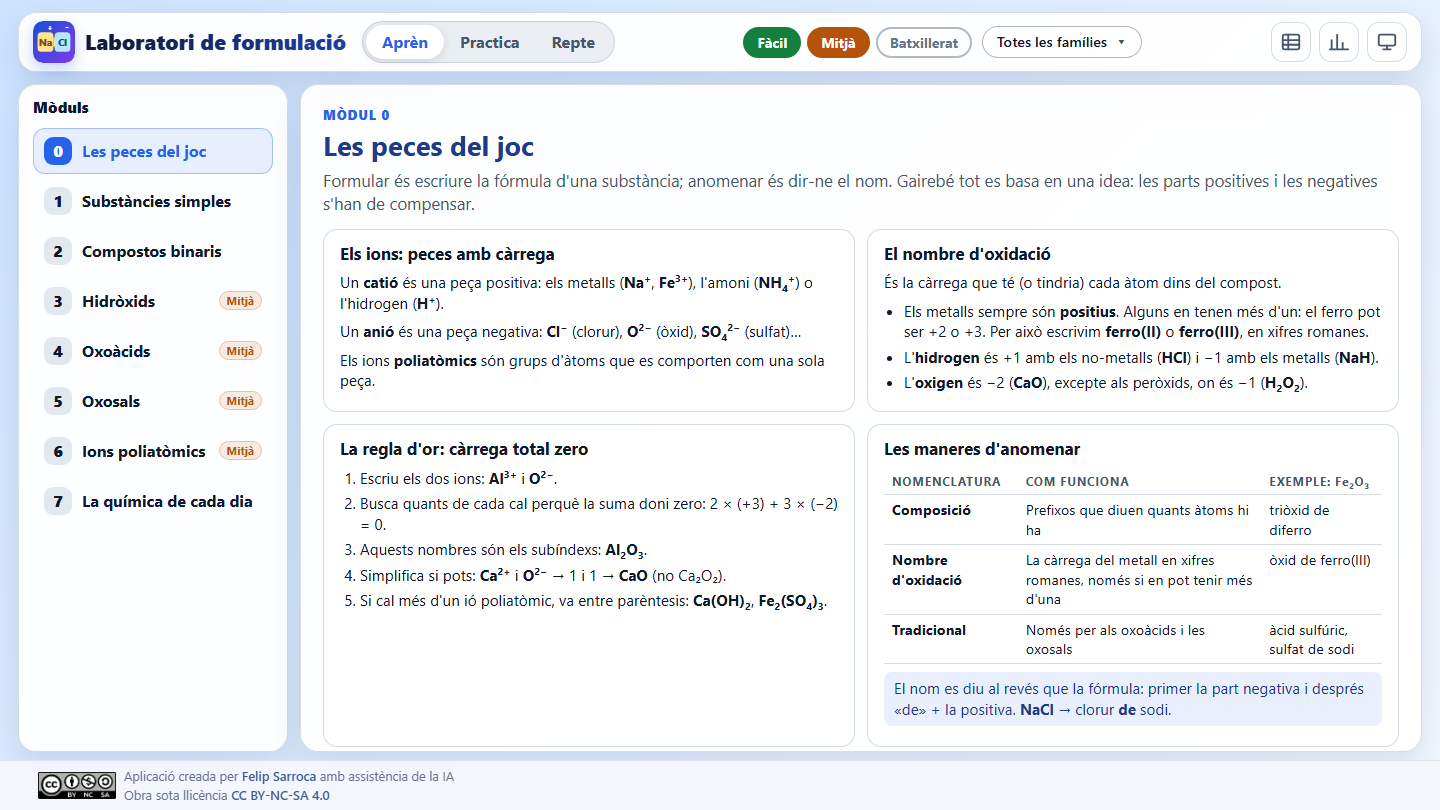
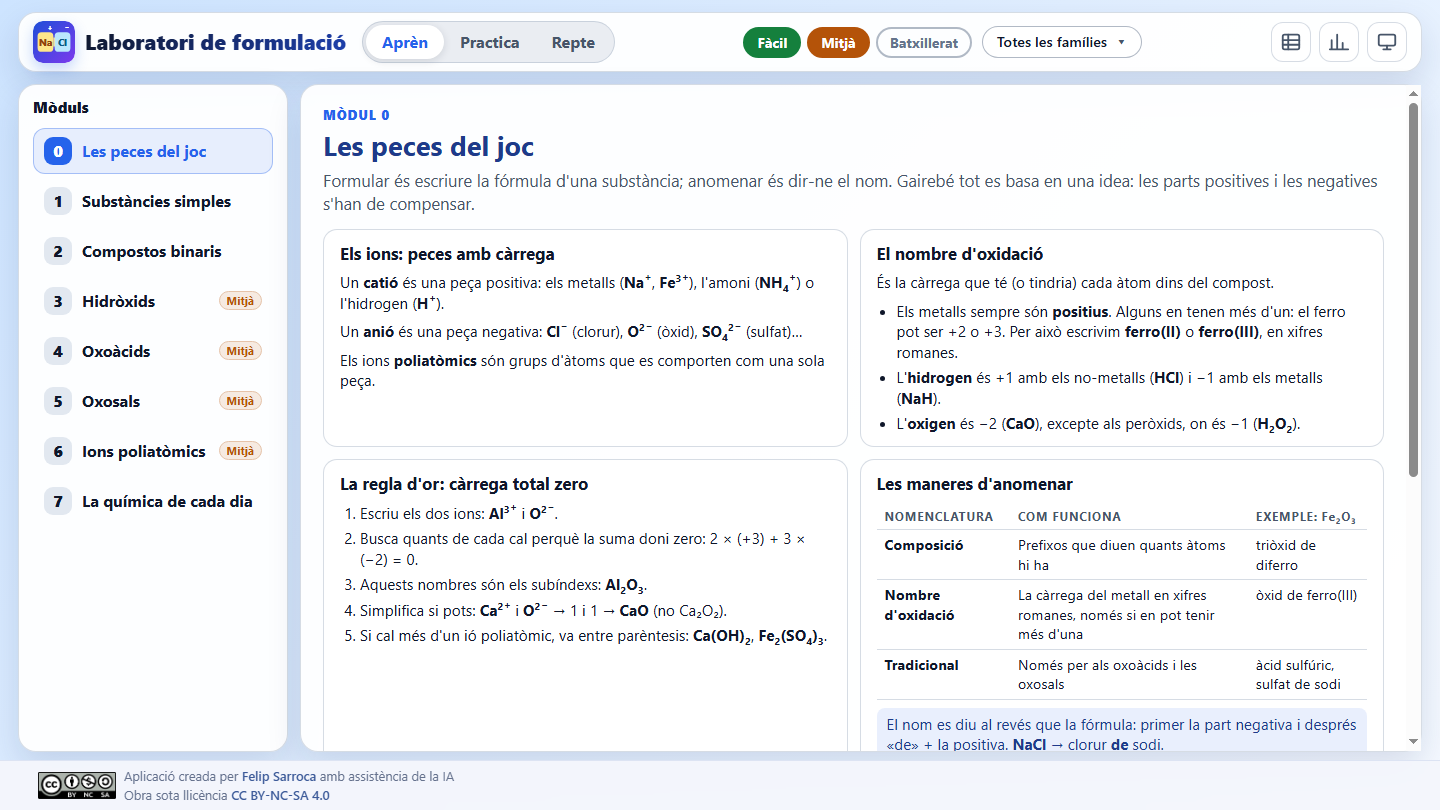
Formulació inorgànica: captures del README noves i pastilles d'ions corregides
- Captures regenerades amb els signes de càrrega ben alineats: construeix, encert, apren-ions, apren-oxosals i taula-ions.
- Les pastilles d'ions (.ion-chips) aplicaven l'estil a tots els span interns, també al signe de càrrega; ara només a la pastilla.
- Mateixa protecció per a .prefix-grid i .rule-pair.

Changed region(s): [[0.2188, 0.1235, 1.0, 0.9259], [0.4062, 0.4012, 0.5625, 0.4321], [0.4375, 0.3395, 0.5625, 0.3704]]

diff --git a/FormulacioInorganica/css/styles.css b/FormulacioInorganica/css/styles.css
@@ -1939,7 +1939,7 @@ svg {
   margin-bottom: 8px;
 }
 
-.prefix-grid span {
+.prefix-grid > span {
   padding: 6px;
   border-radius: 8px;
   background: #f1f5f9;
@@ -1956,12 +1956,16 @@ svg {
   gap: 6px;
 }
 
-.ion-chips span {
-  padding: 4px 10px;
+.ion-chips > span {
+  padding: 4px 12px;
   border-radius: 999px;
   background: var(--neg-soft);
   color: #164e63;
   font-size: 0.9rem;
+}
+
+.ion-chips .fm {
+  margin-right: 6px;
 }
 
 .rule-pair {
@@ -1970,7 +1974,7 @@ svg {
   margin-bottom: 8px;
 }
 
-.rule-pair span {
+.rule-pair > span {
   flex: 1;
   padding: 8px;
   border-radius: 10px;
